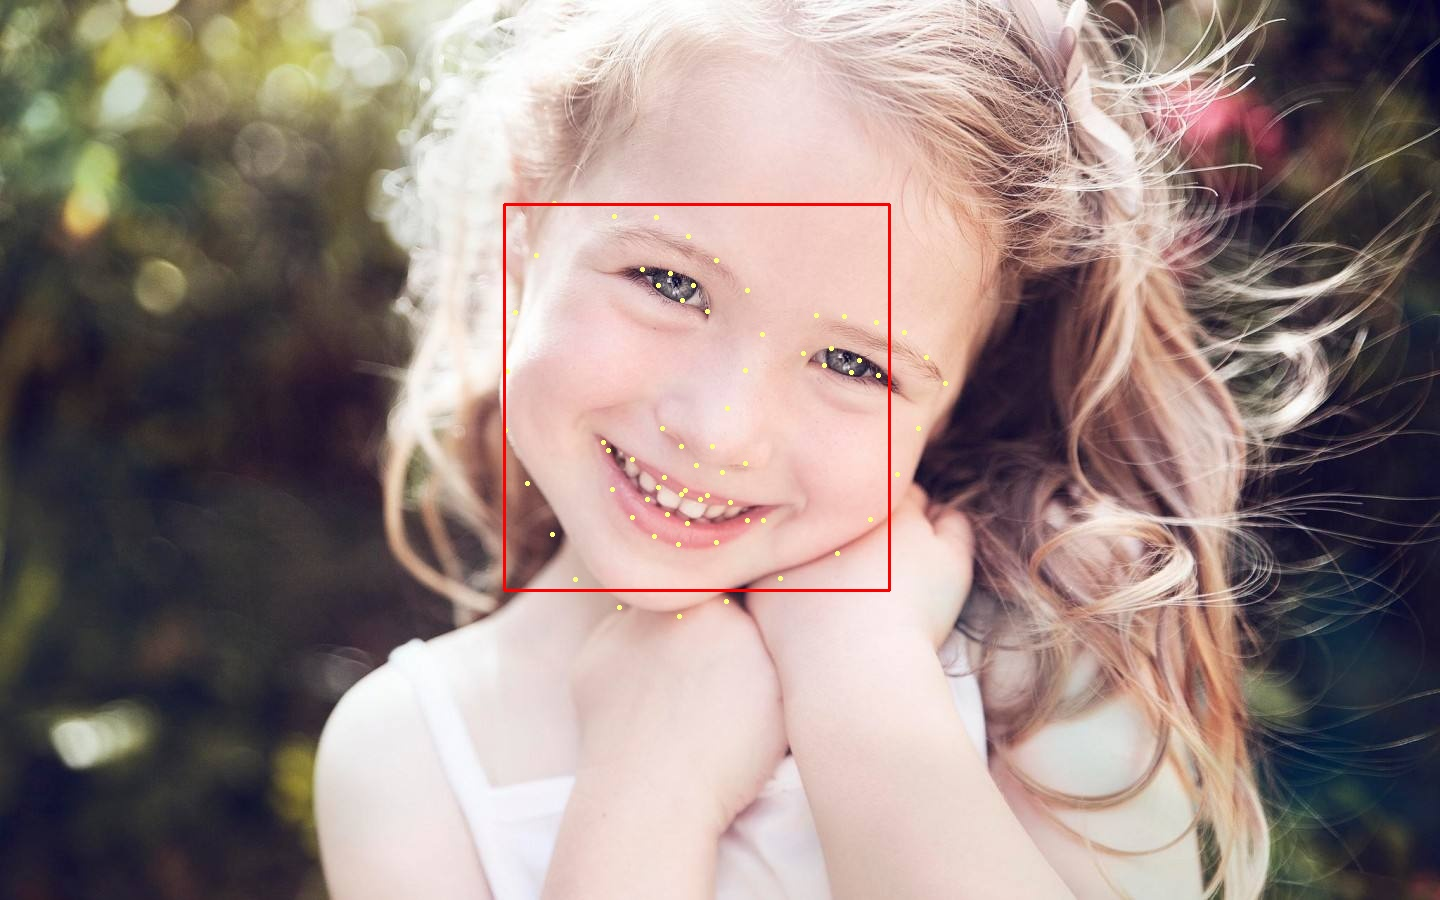
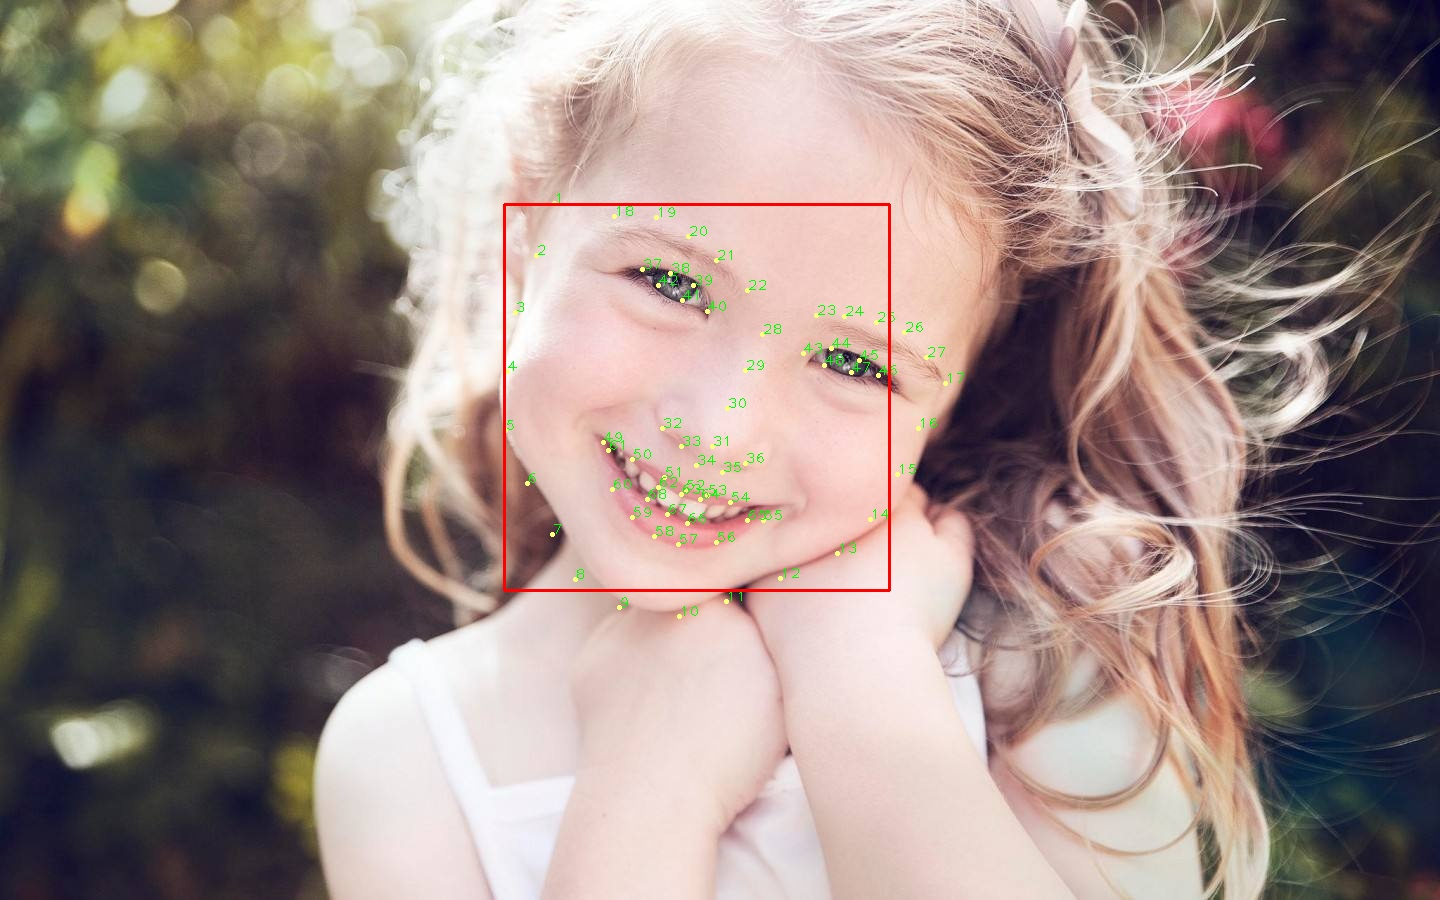
add number

diff --git a/projects/landmark/demo.py b/projects/landmark/demo.py
@@ -16,13 +16,16 @@ def demo_detect(image:str):
         x = points[i] * (x2 - x1) + x1
         y = points[i+1] * (y2 - y1) + y1
         cv2.circle(img, (int(x), int(y)), 1, (128, 255, 255), 2)
+        cv2.putText(img, f"{i//2+1}", (int(x), int(y)), fontFace=cv2.FONT_HERSHEY_PLAIN, 
+            fontScale=1, color=(0, 255, 0), thickness=1), 
     cv2.rectangle(img, (x1, y1), (x2, y2), (0, 0, 255), 2)
     cv2.imshow("image", img)
     cv2.waitKey(0)
     cv2.destroyAllWindows()
+    cv2.imwrite("results/timg.jpeg", img)
 
 if __name__ == '__main__':
     imgpath = 'images/timg.jpeg'
-    img = demo_show(imgpath)
-    cv2.imwrite("results/timg.jpeg", img)
-    # demo_detect(imgpath)
+    # img = demo_show(imgpath)
+    # cv2.imwrite("results/timg.jpeg", img)
+    demo_detect(imgpath)
